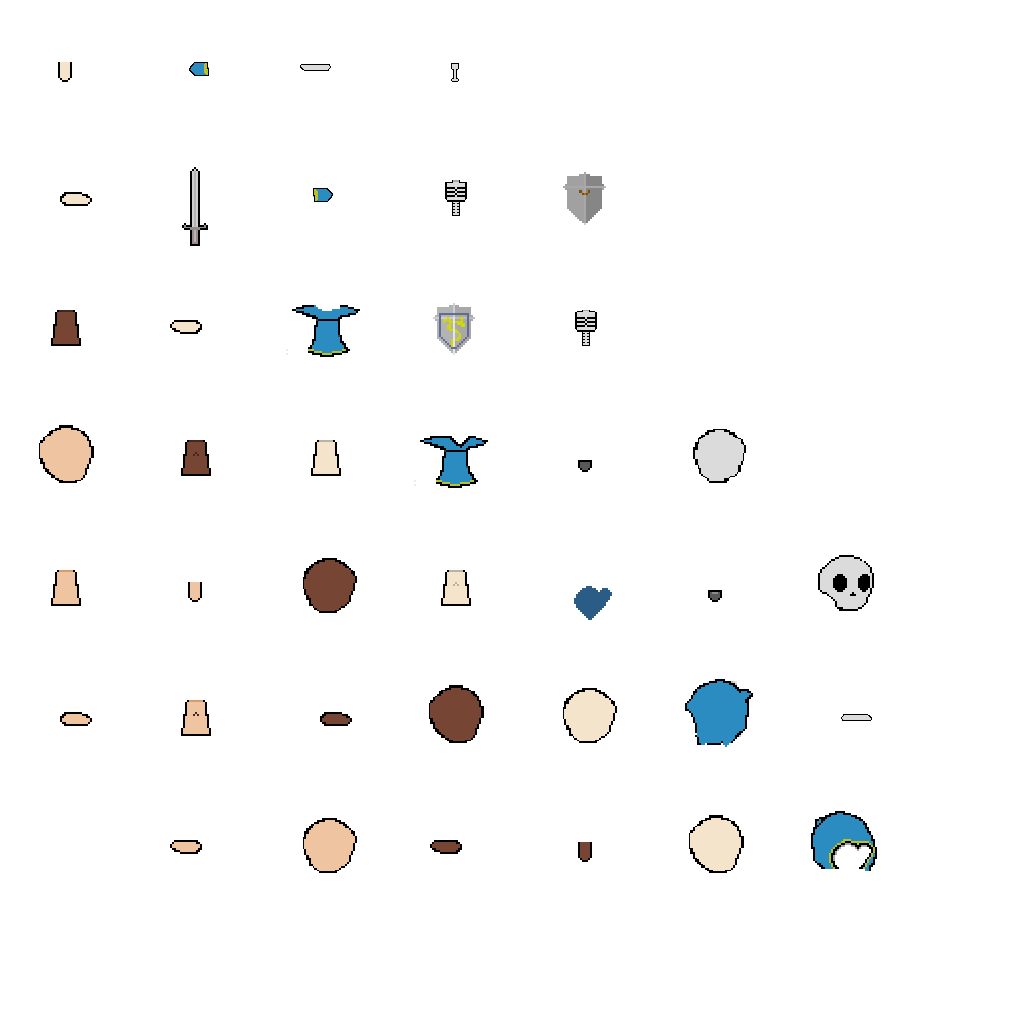
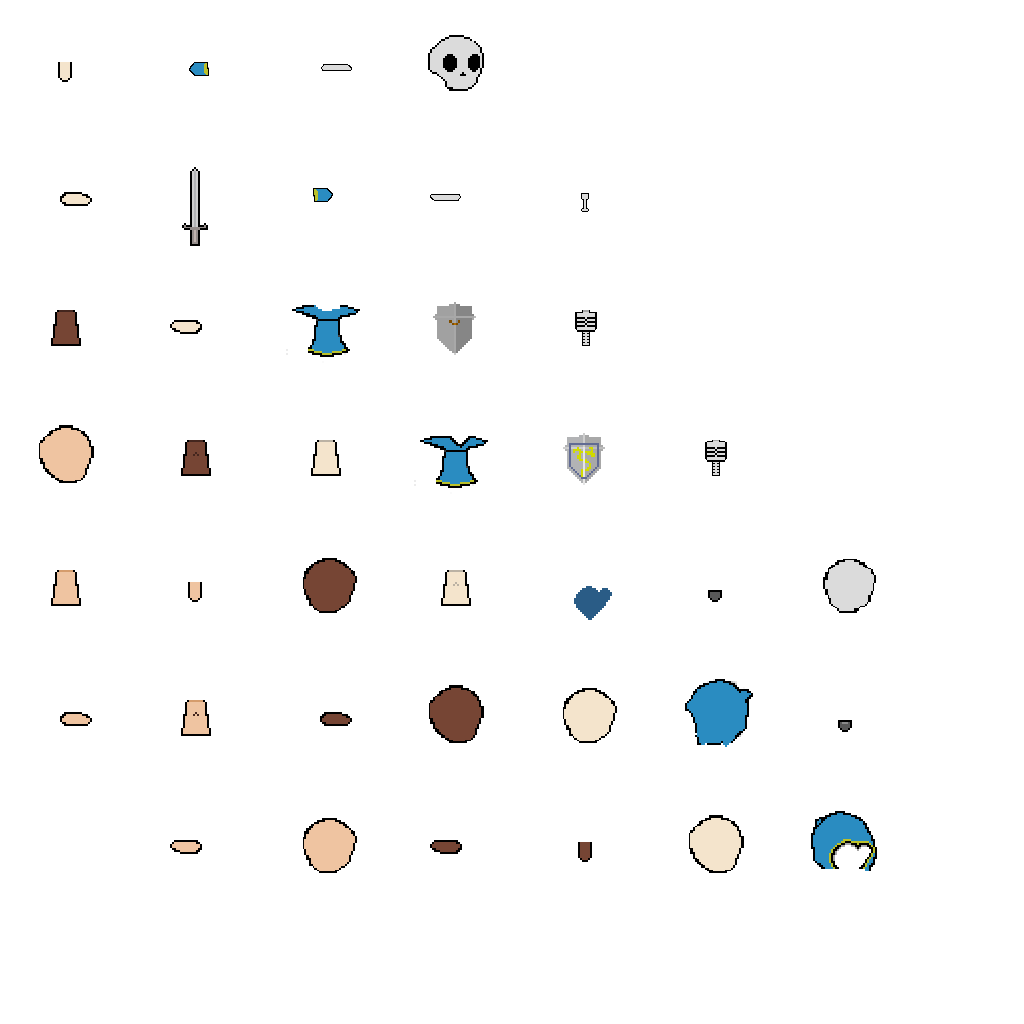
Add sandals

diff --git a/Assets/Scripts/Systems/ViewFactory.cs b/Assets/Scripts/Systems/ViewFactory.cs
@@ -391,7 +391,7 @@ namespace Gamepackage
                 Attachment templateAttachment = templateSkin.GetAttachment(spriteSlotIndex, attachmentKey.ToString());
                 Attachment newAttachment = templateAttachment.GetRemappedClone(sprite, sourceMaterial, true, false, true);
                 RegionAttachment regionAttachment = newAttachment as RegionAttachment;
-                Assert.IsNotNull(regionAttachment);
+                Assert.IsNotNull(regionAttachment, "If this is null there is a decent chance you forgot to set the Ghost image to the slot your looking for on the template skin in spine.");
                 regionAttachment.SetPositionOffset(sprite.textureRectOffset);
                 regionAttachment.UpdateOffset();
                 customSkin.SetAttachment(spriteSlotIndex, attachmentKey.ToString(), newAttachment);
@@ -496,10 +496,6 @@ namespace Gamepackage
             else if (attachment == SpriteAttachment.RightLegBackSE || attachment == SpriteAttachment.RightLegBackNE)
             {
                 return SpriteSlot.RightLegBack.ToString();
-            }
-            else if (attachment == SpriteAttachment.RightLegFrontSE || attachment == SpriteAttachment.RightLegFrontNE)
-            {
-                return SpriteSlot.RightLegFront.ToString();
             }
             else if (attachment == SpriteAttachment.RightLegFrontSE || attachment == SpriteAttachment.RightLegFrontNE)
             {

diff --git a/Assets/Scripts/Content/ItemAppearances.cs b/Assets/Scripts/Content/ItemAppearances.cs
@@ -78,6 +78,13 @@ namespace Gamepackage
             swirlStaff.WornItemSpritePerSlot.Add(SpriteAttachment.MainHandFront, Resources.Load<Sprite>("Sprites/SwirlStaff"));
             retVal.Add(swirlStaff);
 
+            var sandals = BuildDefaultItemAppearance(UniqueIdentifier.ITEM_APPEARANCE_SANDALS, "Sprites/SandalsIcon");
+            sandals.WornItemSpritePerSlot.Add(SpriteAttachment.LeftLegFrontSE, Resources.Load<Sprite>("Sprites/ShoeFrontSE"));
+            sandals.WornItemSpritePerSlot.Add(SpriteAttachment.RightLegFrontSE, Resources.Load<Sprite>("Sprites/ShoeFrontSE"));
+            sandals.WornItemSpritePerSlot.Add(SpriteAttachment.LeftLegFrontNE, Resources.Load<Sprite>("Sprites/ShoeFrontNE"));
+            sandals.WornItemSpritePerSlot.Add(SpriteAttachment.RightLegFrontNE, Resources.Load<Sprite>("Sprites/ShoeFrontNE"));
+            retVal.Add(sandals);
+
             var shieldOfAmalure = BuildDefaultItemAppearance(UniqueIdentifier.ITEM_APPEARANCE_SHIELD_OF_AMALURE, "Sprites/ShieldOfAmalureSE");
             shieldOfAmalure.WornItemSpritePerSlot.Add(SpriteAttachment.OffHandFrontSE, Resources.Load<Sprite>("Sprites/ShieldOfAmalureSE"));
             shieldOfAmalure.WornItemSpritePerSlot.Add(SpriteAttachment.OffHandFrontNE, Resources.Load<Sprite>("Sprites/ShieldOfAmalureNE"));

diff --git a/Assets/Scripts/Content/ItemFactory.cs b/Assets/Scripts/Content/ItemFactory.cs
@@ -346,6 +346,20 @@ namespace Gamepackage
                     ItemSlot.Chest,
                 };
             }
+            else if (uniqueIdentifier == UniqueIdentifier.ITEM_SANDALS)
+            {
+                item.ItemAppearanceIdentifier = UniqueIdentifier.ITEM_APPEARANCE_SANDALS;
+                item.DisplayName = "item.sandals.name".Localize();
+                item.Description = "item.sandals.description".Localize();
+                item.SlotsOccupiedByWearing = new List<ItemSlot>()
+                {
+                    ItemSlot.Shoes,
+                };
+                item.SlotsWearable = new List<ItemSlot>()
+                {
+                    ItemSlot.Shoes,
+                };
+            }
             else if (uniqueIdentifier == UniqueIdentifier.ITEM_SHIELD_OF_AMALURE)
             {
                 item.ItemAppearanceIdentifier = UniqueIdentifier.ITEM_APPEARANCE_SHIELD_OF_AMALURE;

diff --git a/Assets/Scripts/Content/EntityFactory.cs b/Assets/Scripts/Content/EntityFactory.cs
@@ -49,6 +49,7 @@ namespace Gamepackage
                     Team = Team.PLAYER,
                 };
                 entity.Inventory.EquipItem(ItemFactory.Build(UniqueIdentifier.ITEM_ROBE_OF_WONDERS));
+                entity.Inventory.EquipItem(ItemFactory.Build(UniqueIdentifier.ITEM_SANDALS));
                 entity.Inventory.EquipItem(ItemFactory.Build(UniqueIdentifier.ITEM_SHORTBOW));
                 entity.Inventory.AddItem(ItemFactory.Build(UniqueIdentifier.ITEM_WAND_OF_LIGHTNING));
                 entity.Inventory.AddItem(ItemFactory.Build(UniqueIdentifier.ITEM_STAFF_OF_FIREBALLS));

diff --git a/Assets/Scripts/Util/UniqueIdentifier.cs b/Assets/Scripts/Util/UniqueIdentifier.cs
@@ -55,6 +55,7 @@
         ITEM_ARROW,
         ITEM_WAND_OF_LIGHTNING,
         ITEM_ROBE_OF_WONDERS,
+        ITEM_SANDALS,
         ITEM_SHIELD_OF_AMALURE,
         ITEM_APPEARANCE_GREEN_POTION,
         ITEM_APPEARANCE_RED_POTION,
@@ -67,6 +68,7 @@
         ITEM_APPEARANCE_MACE,
         ITEM_APPEARANCE_ARROW,
         ITEM_APPEARANCE_SWIRL_STAFF,
+        ITEM_APPEARANCE_SANDALS,
         ITEM_APPEARANCE_SHIELD_OF_AMALURE,
         ITEM_APPEARANCE_ACTION_STAFF,
         ITEM_APPEARANCE_ROBE_OF_WONDERS,
